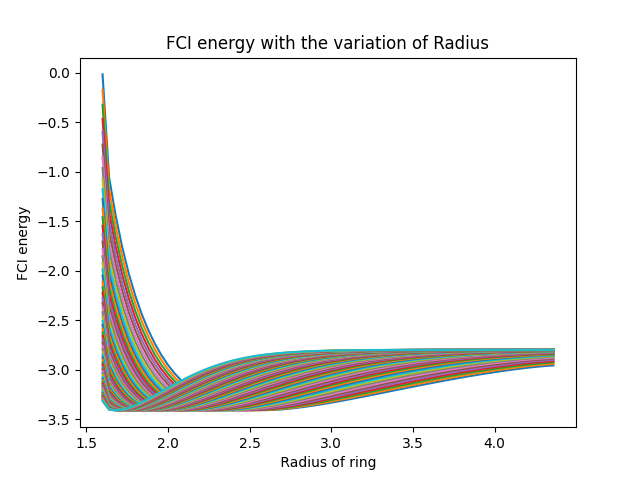
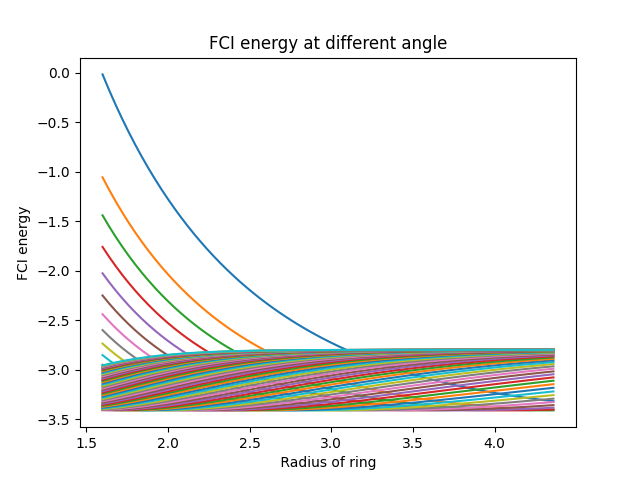
plots correction

diff --git a/test_plots/3d_plot.py b/test_plots/3d_plot.py
@@ -32,19 +32,14 @@ for R in range(n_steps):
     radius.append(x)
 print(radius)
 
-angle=[]
-increment=math.pi/250
-for r in range(n_steps):
-    scale = 1+r*increment
-    x=(math.pi/24)*scale
-    angle.append(x)
-print(angle)
+angle=[7.5,8.219999999999999, 8.939999999999998, 9.66, 10.379999999999999, 11.1, 11.82, 12.540000000000001, 13.259999999999998, 13.979999999999999, 14.700000000000003, 15.419999999999998, 16.14, 16.860000000000003, 17.58, 18.3, 19.02, 19.74, 20.46, 21.18, 21.9, 22.619999999999997, 23.339999999999996, 24.06, 24.779999999999998, 25.5, 26.220000000000006, 26.939999999999994, 27.659999999999997, 28.380000000000003, 29.099999999999998, 29.819999999999997, 30.540000000000003, 31.260000000000005, 31.98, 32.7, 33.42, 34.14, 34.86, 35.58, 36.3, 37.019999999999996, 37.74, 38.46, 39.17999999999999, 39.9, 40.62, 41.339999999999996, 42.06, 42.78, 43.5, 44.22, 44.940000000000005, 45.66, 46.379999999999995, 47.1, 47.82, 48.54, 49.26, 49.97999999999999, 50.69999999999999, 51.42, 52.13999999999999, 52.86000000000001, 53.580000000000005, 54.3, 55.019999999999996, 55.739999999999995, 56.459999999999994, 57.18]
+print(np.shape(angle))
 energy=[] 
 A=[]
 B=[]
 for i in range(70):
-    A.append(cmx_tpsci[0:70])
-    del cmx_tpsci[0:70]
+    A.append(fci[0:70])
+    del fci[0:70]
 B.append(A)
 B=np.array(B)
 B=B.reshape(70,70)
@@ -58,18 +53,18 @@ print(B)
 print(C)
 print(type(B))
 print(np.shape(B))
-
-import numpy
+colorcode=[]
+import numpy as np
 import matplotlib.pyplot as plt
 '''
 for i in range(70):
-    plt.plot(radius,B[i][:]) 
-plt.xlabel(' Radius of ring ')
-plt.ylabel('SCF energy')
-plt.title('SCF energy with the variation of Radius')
-plt.savefig('scf_radius.png')
-plt.show()  '''
-
+    plt.plot(angle,B[i][:]) 
+plt.xlabel(' Angle between two H of ring ')
+plt.ylabel('FCI energy')
+plt.title('FCI energy at different radius')
+plt.savefig('fci_angle.png')
+plt.show()  
+'''
 from mpl_toolkits import mplot3d
 import numpy
 from matplotlib import pyplot as plt
@@ -80,9 +75,9 @@ ax.plot_surface(radius, angle, B,cmap='magma', edgecolor='none')
 #plot_sct = ax.scatter(radius, angle, B, color='red')
 ax.set_xlabel(' Radius of ring in x-axis')
 ax.set_ylabel('angle in y-axis')
-ax.set_zlabel('CMX-TPSCI energy')
-ax.set_title(' 3D surface plot of cmx-tpsci energies ')
-plt.savefig('3d_surface_cmx-tpsci.png')
+ax.set_zlabel('FCI energy')
+ax.set_title(' 3D surface plot fci energies ')
+plt.savefig('3d_surface_fci.png')
 plt.show()
 
 
